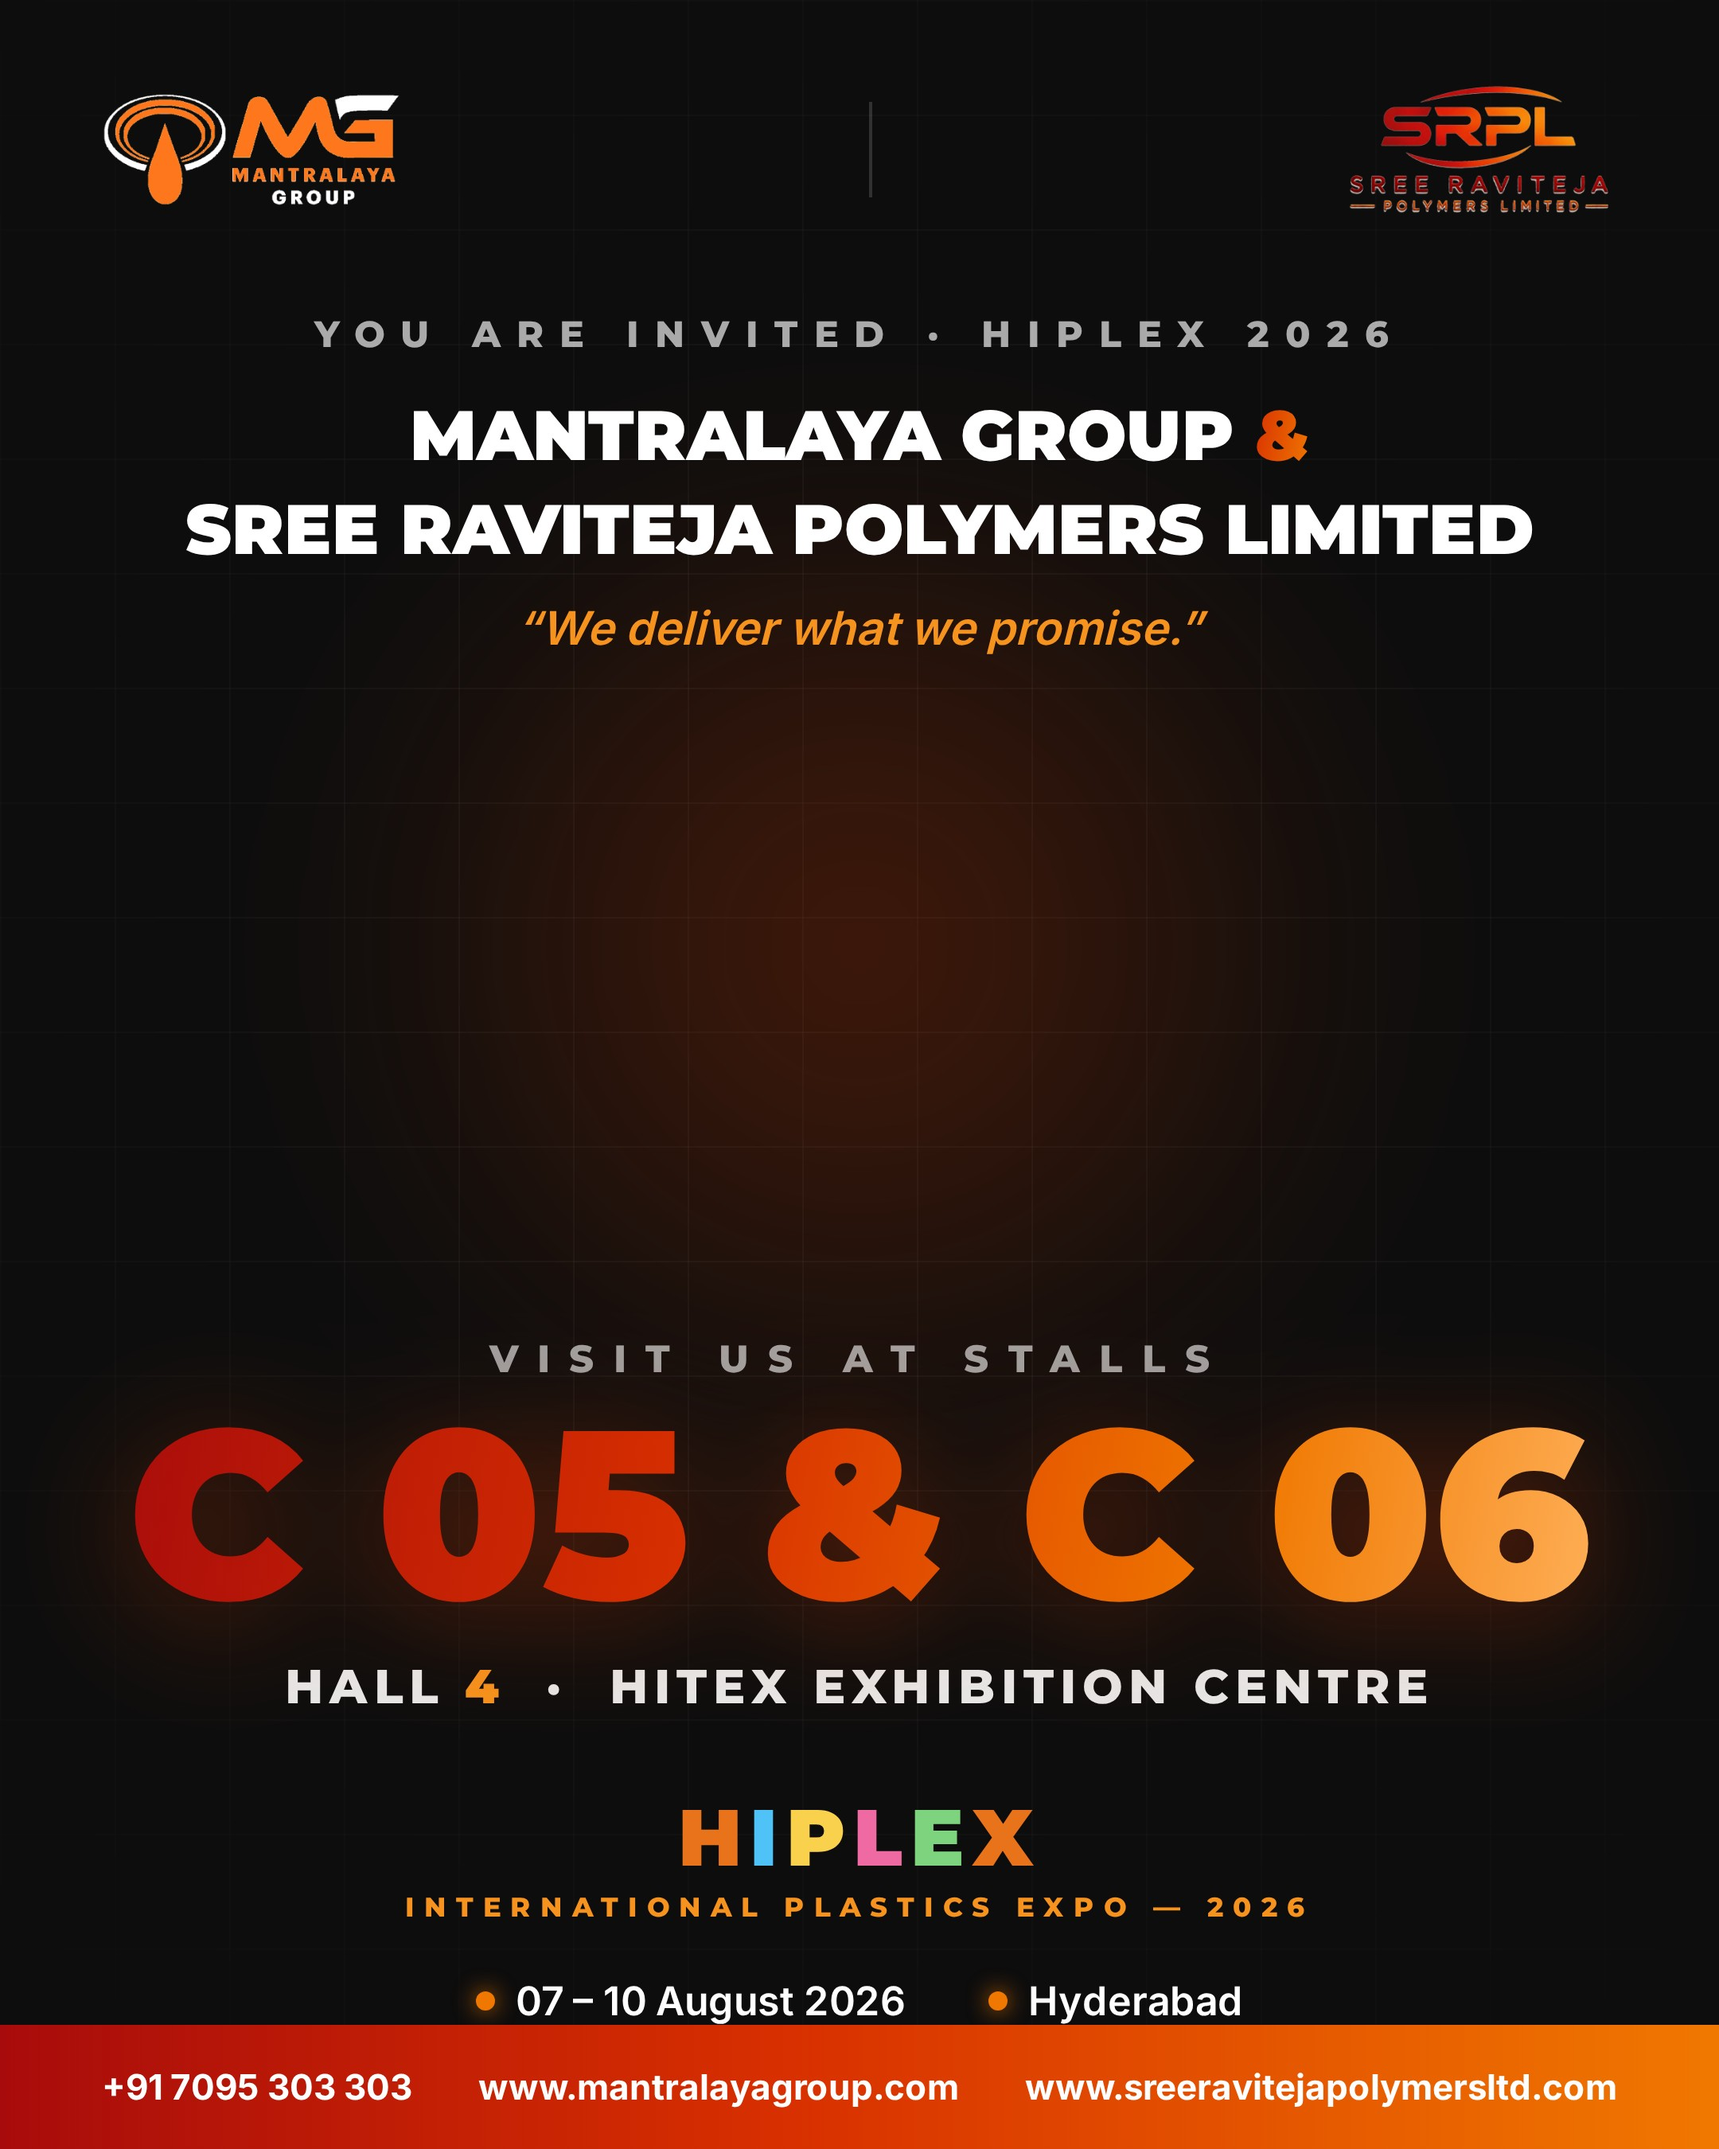
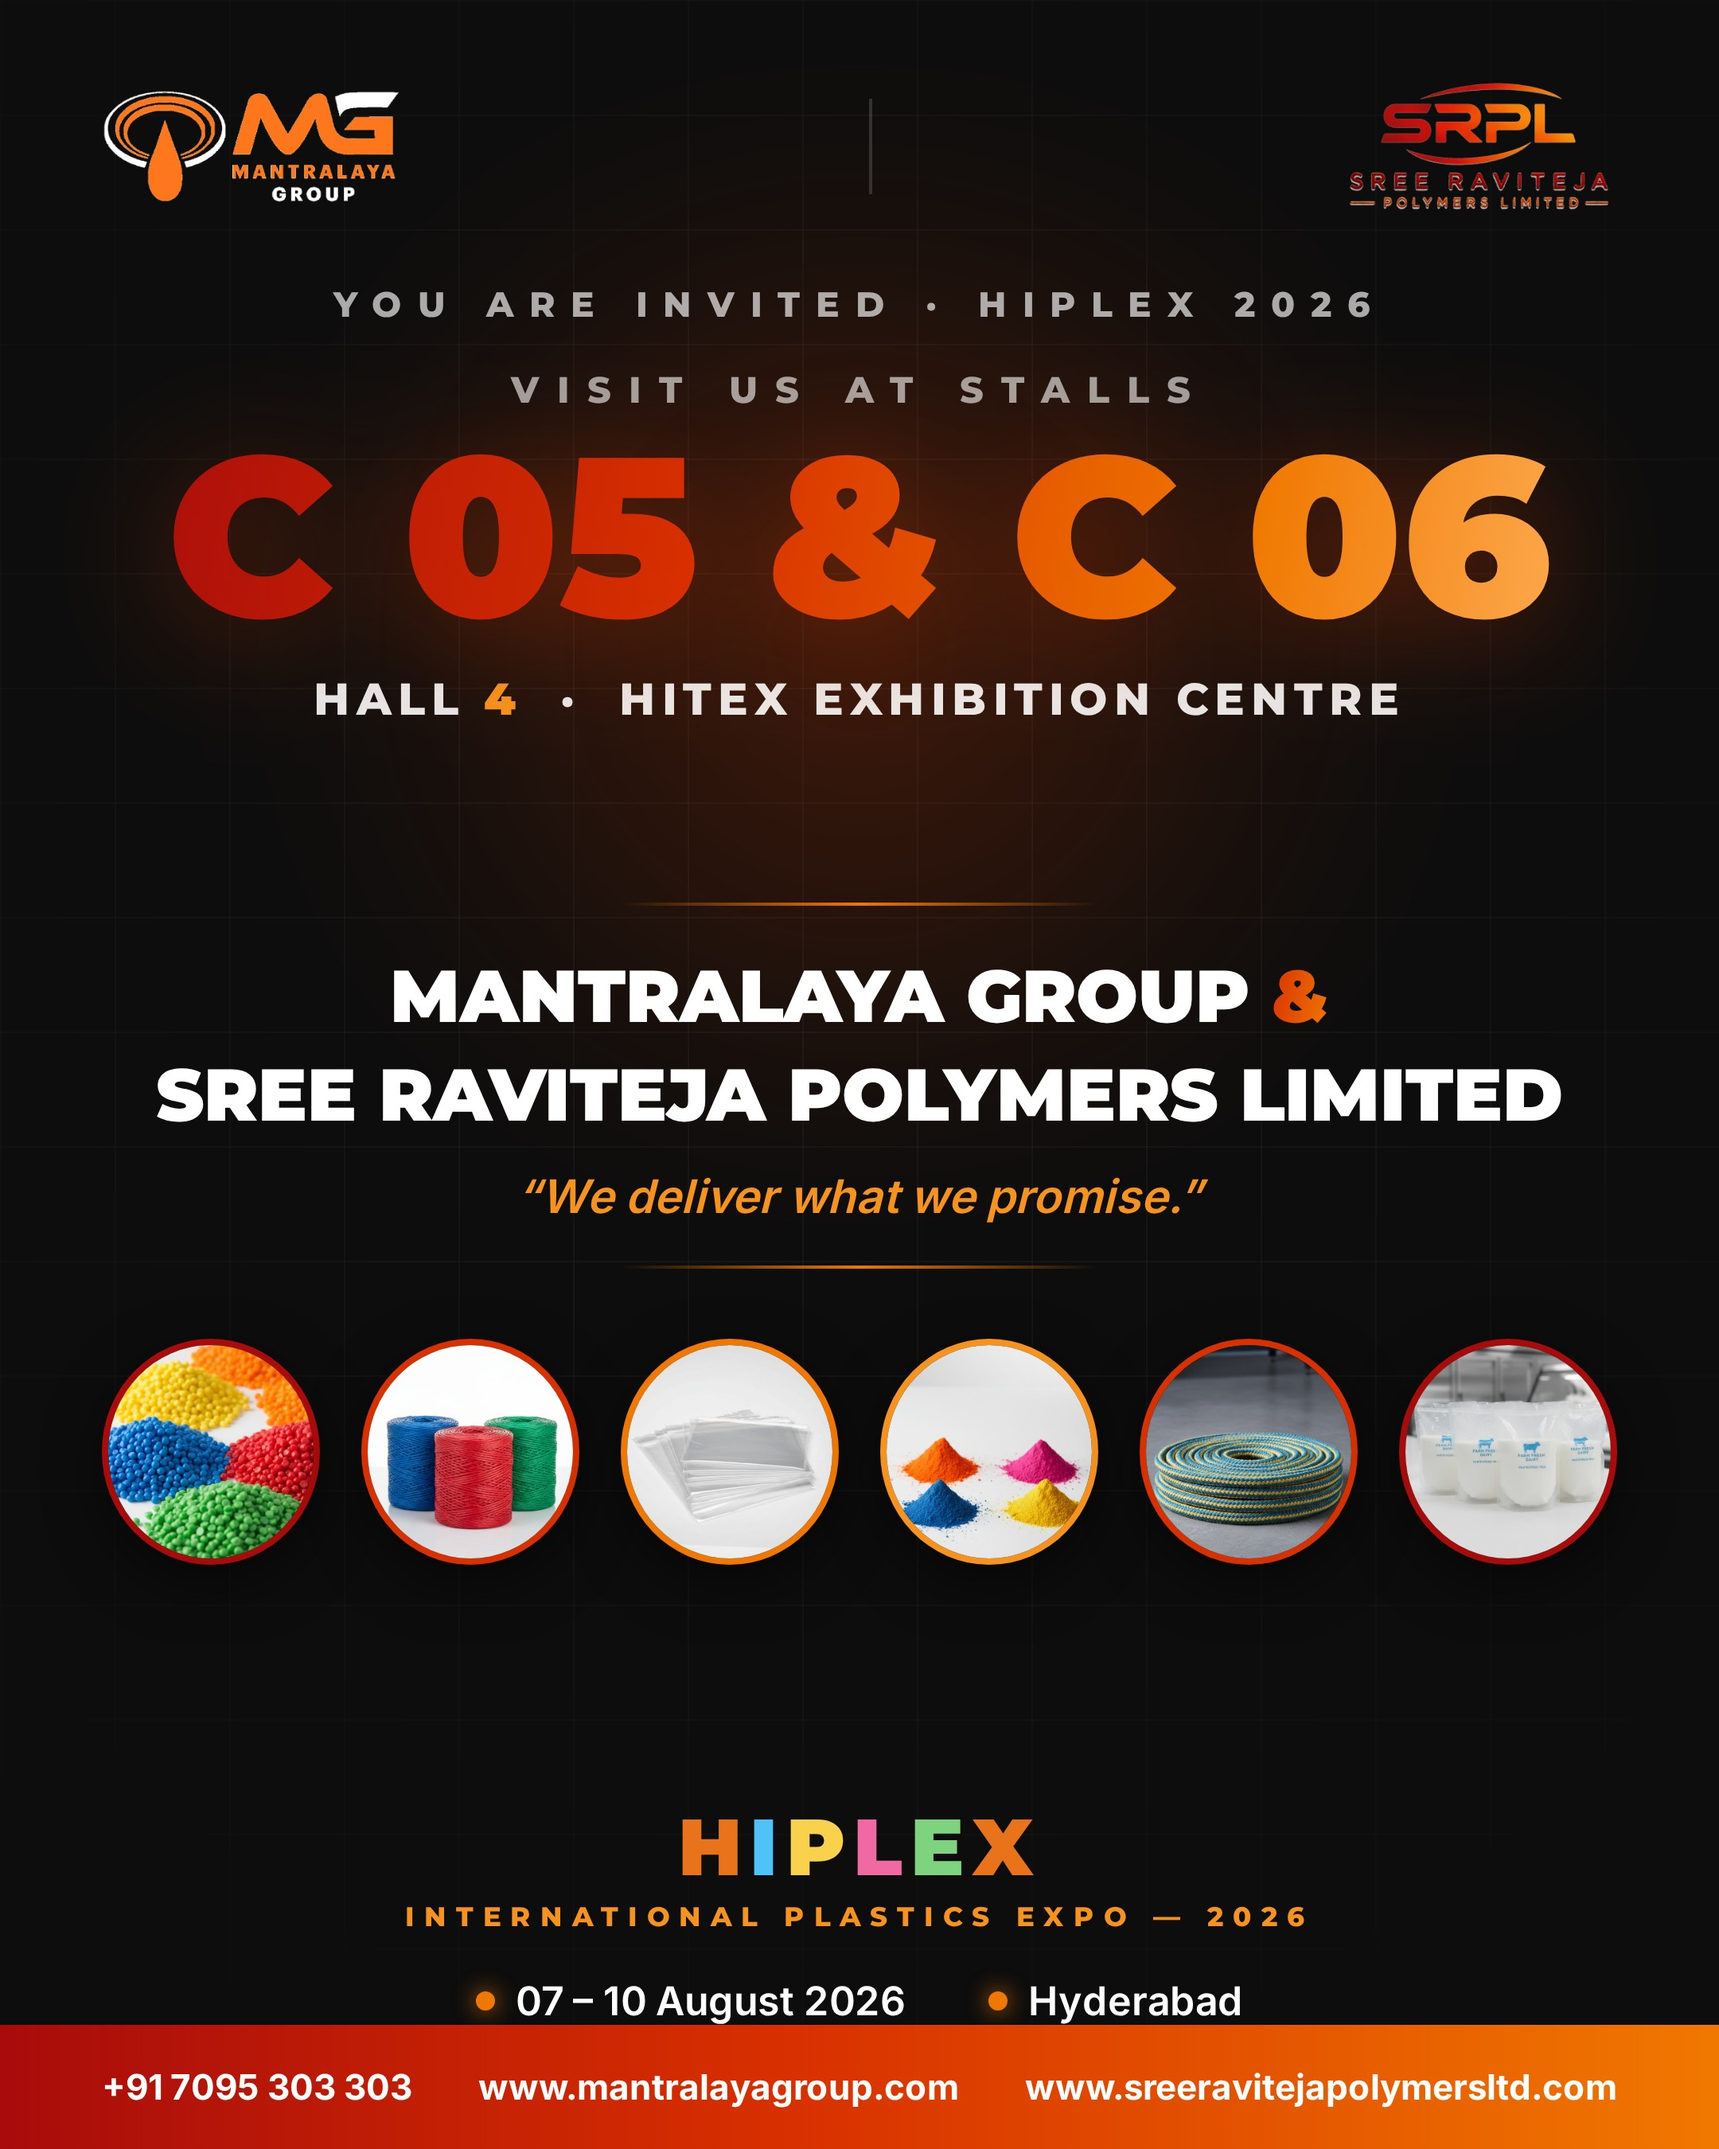
Invite I: companies centered, six product photos added, balanced layout

diff --git a/invites/invite-i.html b/invites/invite-i.html
@@ -4,27 +4,35 @@
 <style>
 * { margin:0; padding:0; box-sizing:border-box; }
 body { width:1080px; height:1350px; font-family:'Montserrat',sans-serif; background:#0D0D0D; overflow:hidden; position:relative; color:#fff; display:flex; flex-direction:column; }
-.grid-bg { position:absolute; inset:0; background:linear-gradient(rgba(255,255,255,0.03) 1px, transparent 1px), linear-gradient(90deg, rgba(255,255,255,0.03) 1px, transparent 1px); background-size:72px 72px; -webkit-mask-image:radial-gradient(ellipse 90% 80% at 50% 45%, #000 30%, transparent 80%); }
-.glow { position:absolute; width:900px; height:600px; border-radius:50%; background:radial-gradient(circle, rgba(216,60,0,0.28), transparent 65%); top:44%; left:50%; transform:translate(-50%,-50%); filter:blur(60px); }
-.inner { position:relative; z-index:2; display:flex; flex-direction:column; height:100%; padding:52px 64px 0; }
+.grid-bg { position:absolute; inset:0; background:linear-gradient(rgba(255,255,255,0.03) 1px, transparent 1px), linear-gradient(90deg, rgba(255,255,255,0.03) 1px, transparent 1px); background-size:72px 72px; -webkit-mask-image:radial-gradient(ellipse 90% 80% at 50% 40%, #000 30%, transparent 80%); }
+.glow { position:absolute; width:900px; height:600px; border-radius:50%; background:radial-gradient(circle, rgba(216,60,0,0.26), transparent 65%); top:30%; left:50%; transform:translate(-50%,-50%); filter:blur(60px); }
+.inner { position:relative; z-index:2; display:flex; flex-direction:column; height:100%; padding:50px 64px 0; }
 .logos { display:flex; align-items:center; justify-content:space-between; }
 .logos img { height:72px; }
 .divider { width:2px; height:60px; background:rgba(255,255,255,0.15); }
-.invite-line { margin-top:60px; text-align:center; font-size:23px; font-weight:800; letter-spacing:10px; color:rgba(255,255,255,0.65); }
-.co { margin-top:20px; text-align:center; font-size:44px; font-weight:900; line-height:1.35; }
-.co .amp { background:linear-gradient(100deg,#D83000,#F07800); -webkit-background-clip:text; background-clip:text; color:transparent; }
-.promise { margin-top:14px; text-align:center; font-family:'Inter',sans-serif; font-style:italic; font-size:29px; font-weight:600; color:#F6921E; }
-.spacer { flex:1; }
-.mega { text-align:center; }
-.mega .lbl { font-size:24px; font-weight:800; letter-spacing:12px; color:rgba(255,255,255,0.6); }
-.mega .num { margin-top:6px; font-size:150px; font-weight:900; line-height:1.02; background:linear-gradient(100deg,#A80B0B 0%,#D83000 40%,#F07800 75%,#FFB25C 100%); -webkit-background-clip:text; background-clip:text; color:transparent; filter:drop-shadow(0 10px 40px rgba(216,60,0,0.4)); white-space:nowrap; }
-.mega .hall { margin-top:14px; font-size:30px; font-weight:800; letter-spacing:4px; color:rgba(255,255,255,0.9); }
+.invite-line { margin-top:44px; text-align:center; font-size:22px; font-weight:800; letter-spacing:10px; color:rgba(255,255,255,0.65); }
+.mega { margin-top:26px; text-align:center; }
+.mega .lbl { font-size:23px; font-weight:800; letter-spacing:11px; color:rgba(255,255,255,0.6); }
+.mega .num { margin-top:6px; font-size:142px; font-weight:900; line-height:1.02; background:linear-gradient(100deg,#A80B0B 0%,#D83000 40%,#F07800 75%,#FFB25C 100%); -webkit-background-clip:text; background-clip:text; color:transparent; filter:drop-shadow(0 10px 40px rgba(216,60,0,0.4)); white-space:nowrap; }
+.mega .hall { margin-top:12px; font-size:28px; font-weight:800; letter-spacing:4px; color:rgba(255,255,255,0.9); }
 .mega .hall b { color:#F6921E; }
-.hiplex { margin-top:52px; text-align:center; }
+.spacer { flex:1; }
+.co-block { text-align:center; }
+.co-rule { margin:0 auto 26px; width:300px; height:2px; background:linear-gradient(90deg, transparent, #F07800, transparent); }
+.co { font-size:46px; font-weight:900; line-height:1.35; }
+.co .amp { background:linear-gradient(100deg,#D83000,#F07800); -webkit-background-clip:text; background-clip:text; color:transparent; }
+.promise { margin-top:14px; font-family:'Inter',sans-serif; font-style:italic; font-size:29px; font-weight:600; color:#F6921E; }
+.co-rule2 { margin:26px auto 0; width:300px; height:2px; background:linear-gradient(90deg, transparent, #F07800, transparent); }
+.prod-row { margin-top:44px; display:flex; justify-content:center; gap:26px; }
+.prod { width:142px; height:142px; border-radius:50%; overflow:hidden; border:4px solid; box-shadow:0 12px 34px rgba(0,0,0,0.5); }
+.prod img { width:100%; height:100%; object-fit:cover; display:block; }
+.p1 { border-color:#A80B0B; } .p2 { border-color:#D83000; } .p3 { border-color:#F07800; }
+.p4 { border-color:#F6921E; } .p5 { border-color:#D83000; } .p6 { border-color:#A80B0B; }
+.hiplex { margin-top:42px; text-align:center; }
 .hiplex .word { font-size:50px; font-weight:900; letter-spacing:5px; line-height:1; }
 .hiplex .word span:nth-child(1){color:#E8731A}.hiplex .word span:nth-child(2){color:#4FC3F7}.hiplex .word span:nth-child(3){color:#F9D14C}.hiplex .word span:nth-child(4){color:#EF6AA2}.hiplex .word span:nth-child(5){color:#7ED47E}.hiplex .word span:nth-child(6){color:#E8731A}
 .hiplex .sub { margin-top:8px; font-size:17px; font-weight:800; letter-spacing:6px; color:#F6921E; }
-.when { margin-top:34px; display:flex; justify-content:center; gap:52px; font-family:'Inter',sans-serif; font-size:25px; font-weight:600; }
+.when { margin-top:28px; display:flex; justify-content:center; gap:52px; font-family:'Inter',sans-serif; font-size:25px; font-weight:600; }
 .when .item { display:flex; align-items:center; gap:13px; }
 .when .dot { width:12px; height:12px; background:#F07800; border-radius:50%; box-shadow:0 0 14px rgba(240,120,0,0.9); }
 .footer { margin-top:auto; background:linear-gradient(90deg,#A80B0B,#D83000 46%,#F07800); margin-left:-64px; margin-right:-64px; padding:26px 64px; display:flex; justify-content:space-between; align-items:center; font-family:'Inter',sans-serif; font-size:22px; font-weight:700; }
@@ -38,14 +46,27 @@ body { width:1080px; height:1350px; font-family:'Montserrat',sans-serif; backgro
       <img src="../srpl-logo-dark.png" alt="SRPL" style="height:84px;">
     </div>
     <div class="invite-line">YOU ARE INVITED &middot; HIPLEX 2026</div>
-    <div class="co">MANTRALAYA GROUP <span class="amp">&amp;</span><br>SREE RAVITEJA POLYMERS LIMITED</div>
-    <div class="promise">&ldquo;We deliver what we promise.&rdquo;</div>
-    <div class="spacer"></div>
     <div class="mega">
       <div class="lbl">VISIT US AT STALLS</div>
       <div class="num">C 05 &amp; C 06</div>
       <div class="hall">HALL <b>4</b> &nbsp;&middot;&nbsp; HITEX EXHIBITION CENTRE</div>
     </div>
+    <div class="spacer"></div>
+    <div class="co-block">
+      <div class="co-rule"></div>
+      <div class="co">MANTRALAYA GROUP <span class="amp">&amp;</span><br>SREE RAVITEJA POLYMERS LIMITED</div>
+      <div class="promise">&ldquo;We deliver what we promise.&rdquo;</div>
+      <div class="co-rule2"></div>
+    </div>
+    <div class="prod-row">
+      <div class="prod p1"><img src="../products/coloured-granules.jpg"></div>
+      <div class="prod p2"><img src="../products/plastic-sutli.jpg"></div>
+      <div class="prod p3"><img src="../products/pp-bags.jpg"></div>
+      <div class="prod p4"><img src="../products/pigments.jpg"></div>
+      <div class="prod p5"><img src="../products/ropes.jpg"></div>
+      <div class="prod p6"><img src="../products/milk-pouches.jpg"></div>
+    </div>
+    <div class="spacer"></div>
     <div class="hiplex">
       <div class="word"><span>H</span><span>I</span><span>P</span><span>L</span><span>E</span><span>X</span></div>
       <div class="sub">INTERNATIONAL PLASTICS EXPO &mdash; 2026</div>
